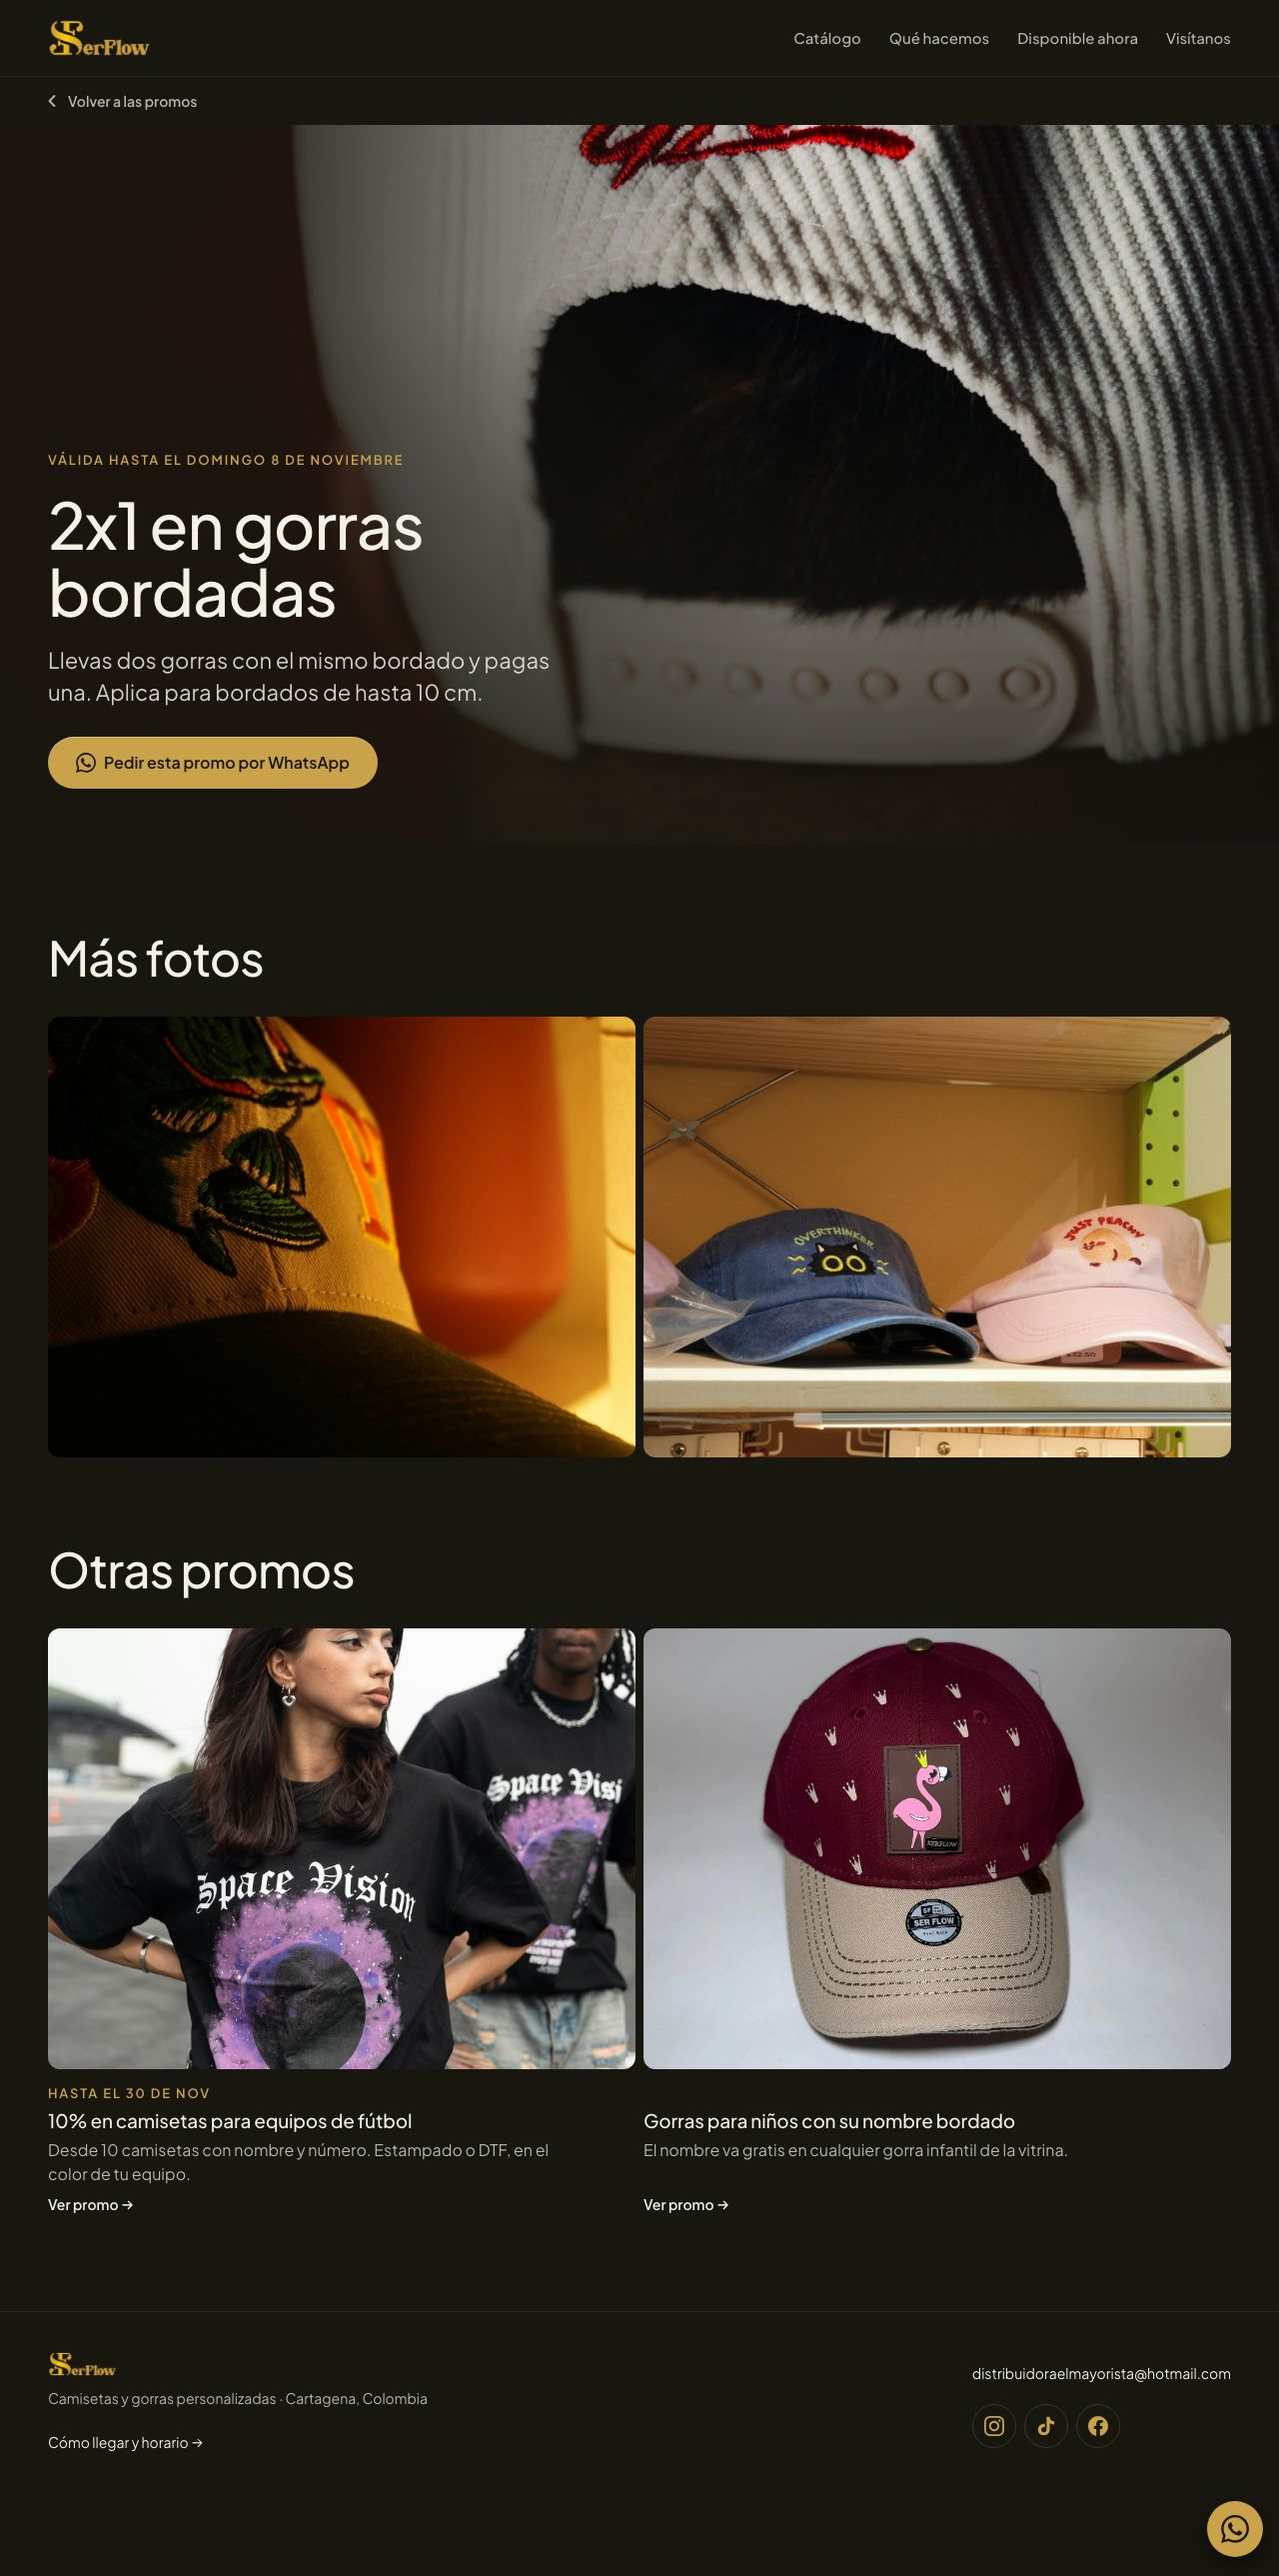
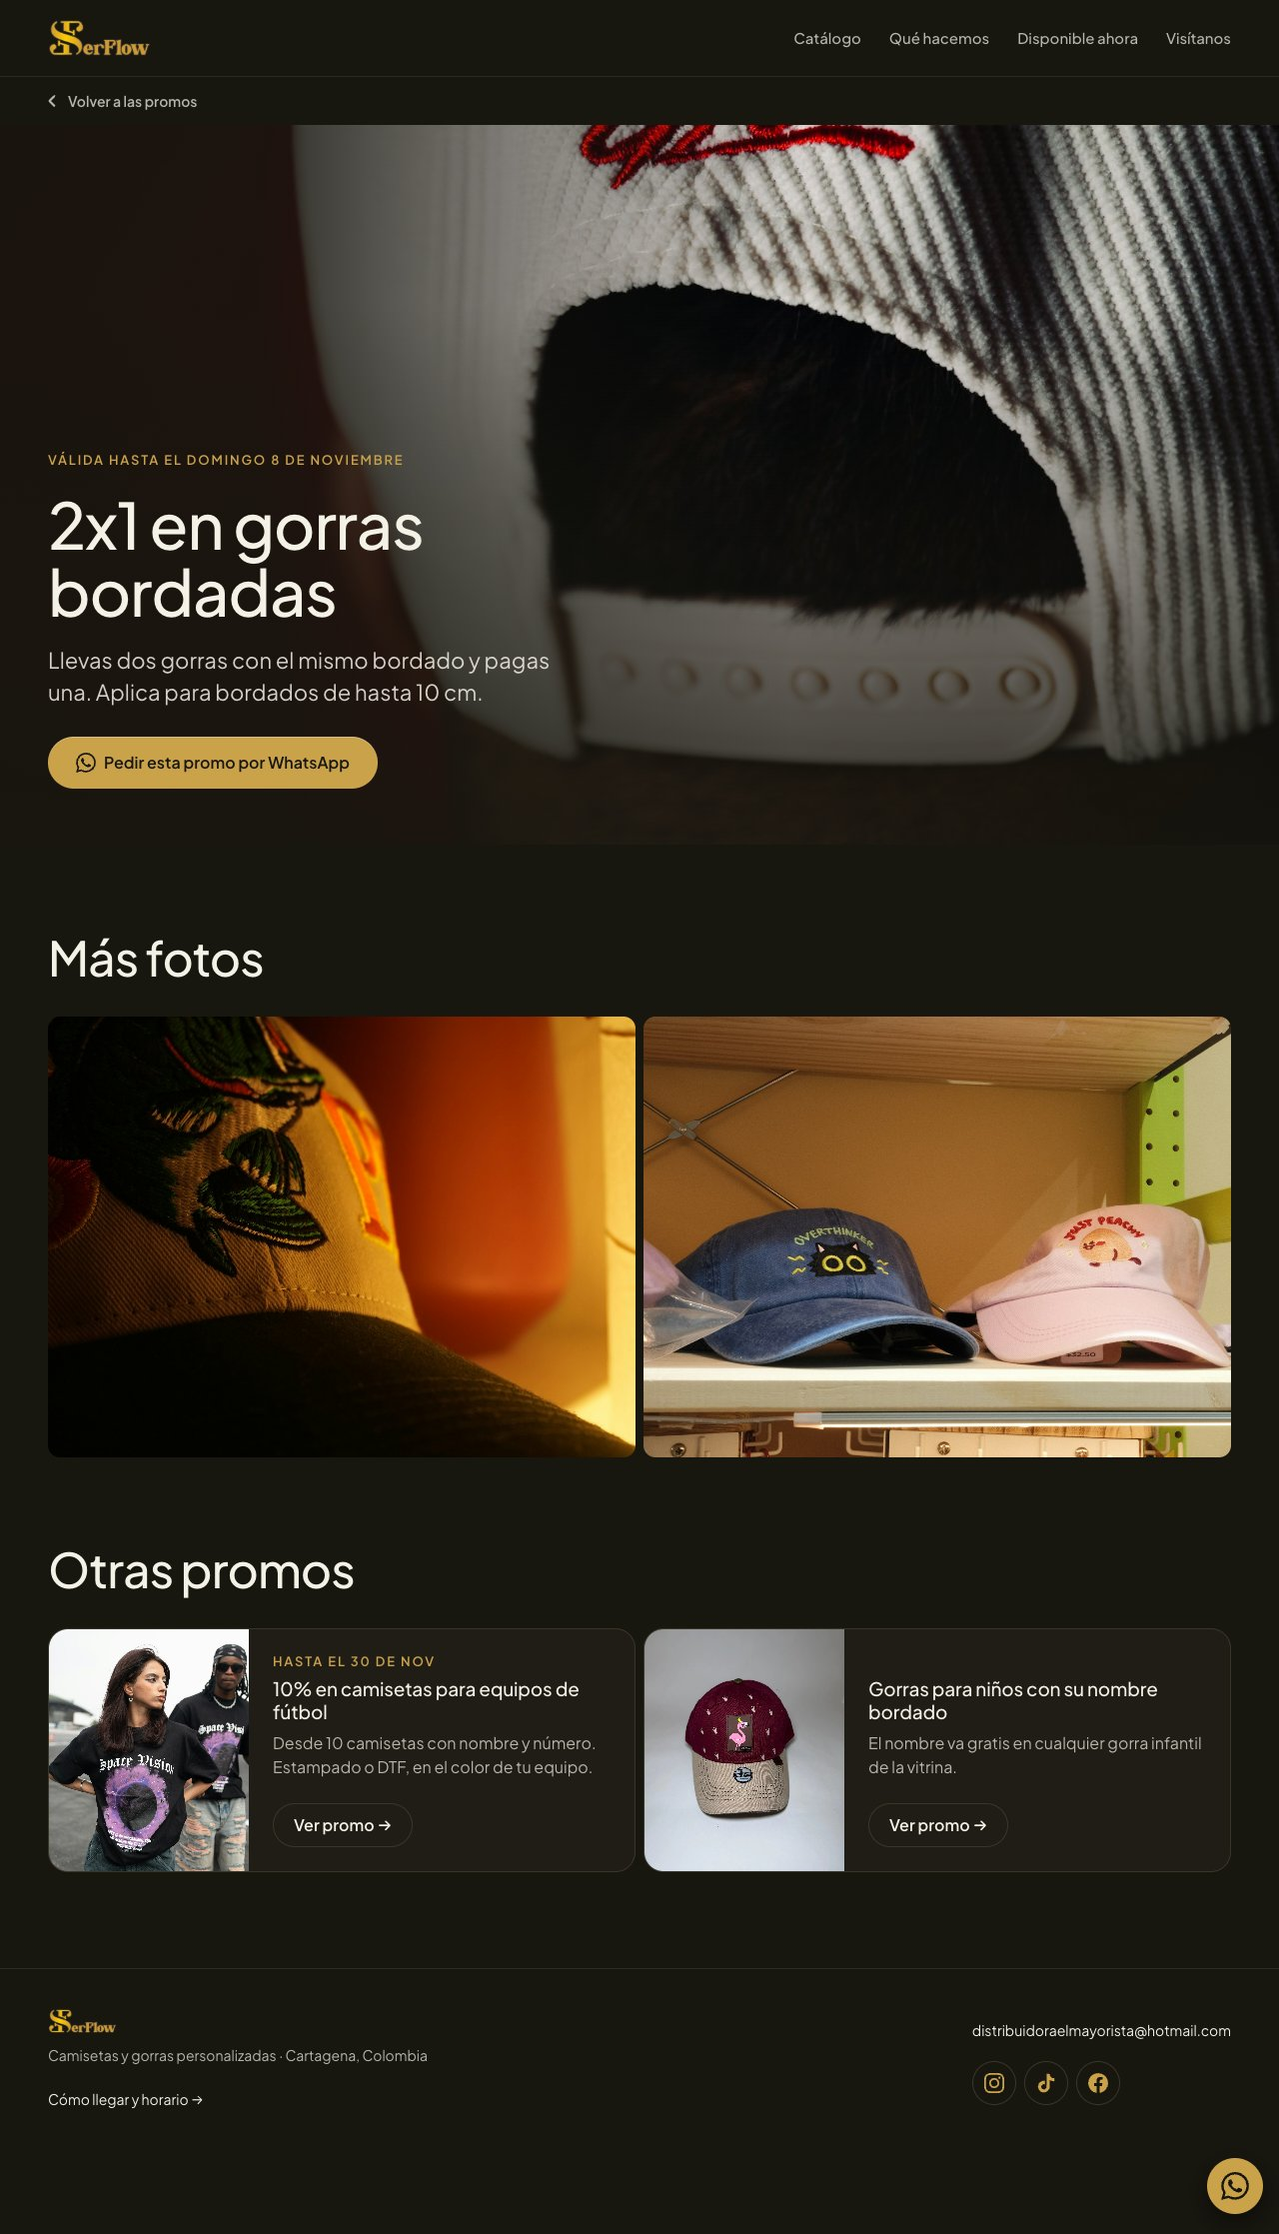
docs: PRI-286 other promos and the 404 promos as boxed horizontal promo cards: small photo at full height, date, title and a bordered Ver promo button, text always at the top

diff --git a/tempo/designs/canvases/portada-final/pantallas.css b/tempo/designs/canvases/portada-final/pantallas.css
@@ -131,32 +131,56 @@
   .pf-mas-fotos[data-n='1'] img { aspect-ratio: 21 / 9; }
 }
 
-/* Tarjetas de promo (PromoCard sin caja). Celular: filas foto 4:5 de 112 + texto, como Qué hacemos en la portada.
-   Desktop: una fila llena (2 -> 6 columnas, 3 -> 4), foto 4:3 y pie debajo, como Disponible ahora.
-   La vigencia con la etiqueta del sistema (13 mayúsculas oro), sin píldora. PUENTE: PromoCard. */
-.pf-promo-tarjetas { display: grid; gap: 24px; }
-.sf-r3 .pf .pf-promo-tarjetas a > div { display: grid; grid-template-columns: 112px minmax(0, 1fr); column-gap: 16px; align-items: start; }
-.sf-r3 .pf .pf-promo-tarjetas a img { aspect-ratio: 4 / 5; height: auto; }
-.sf-r3 .pf .pf-promo-tarjetas a > div > div.flex-1.p-4:last-child { padding: 0; gap: 0; justify-content: flex-start !important; }
-/* En el celular, sin la descripción: cortada a dos líneas quedaba a medio decir y más alta que la miniatura. */
-.sf-r3 .pf .pf-promo-tarjetas p { display: none; }
-/* La vigencia en una línea de alto fijo (16) y 8 hasta el título. Si la promo no tiene fecha, el título baja esos
-   mismos 24: los títulos de todas las tarjetas quedan en la misma línea. Al construir: PromoCard reserva la línea de
-   vigencia vacía (min-height) en vez de este margen. */
+/* Tarjetas de promo (Otras promos y la 404). Said (2026-11-02): "parecen otras fotos más, dales más jerarquía". Ya no
+   van sin caja como la galería de Más fotos: cada promo es una tarjeta horizontal con caja (superficie, borde, radio
+   16), la foto chica a la izquierda a todo el alto y, a la derecha, la vigencia (etiqueta oro), el título y Ver promo
+   con forma de botón (borde, 44 de alto, 16 semibold). Celular: una debajo de otra, foto de 112, sin la bajada.
+   Desktop: una fila llena (2 -> 6 columnas, 3 -> 4); con la tarjeta de 30rem o más (2 en fila) la foto mide 200 y
+   sale la bajada. Texto siempre arriba; Ver promo al fondo de la tarjeta, así en una fila todas cierran igual.
+   PUENTE: PromoCard (en el PR, una variante horizontal y el "Ver promo" como Button secondary dentro del link). */
+.pf-promo-tarjetas { display: grid; gap: var(--pf-g); }
+.sf-r3 .pf .pf-promo-tarjetas a.group.rounded-card { height: 100%; overflow: hidden; border: 1px solid var(--color-line); border-radius: var(--radius-card); background: var(--color-surface); }
+.sf-r3 .pf .pf-promo-tarjetas a > div { display: grid; grid-template-columns: 112px minmax(0, 1fr); height: 100%; }
+/* La foto llena su columna sin dar alto: lo da el texto (mínimo 140 = 112 en 4:5). */
+.sf-r3 .pf .pf-promo-tarjetas a > div > div.overflow-hidden { position: relative; min-height: 140px; border-radius: 0; }
+.sf-r3 .pf .pf-promo-tarjetas a img { position: absolute; inset: 0; width: 100%; height: 100%; aspect-ratio: auto; }
+.sf-r3 .pf .pf-promo-tarjetas a > div > div.flex-1.p-4:last-child { display: flex; flex-direction: column; align-items: flex-start; justify-content: flex-start !important; gap: 0; padding: 16px; }
+.sf-r3 .pf .pf-promo-tarjetas p { display: none; margin-top: 8px; font-size: var(--pf-body); line-height: 1.5; color: var(--color-muted); max-width: 44ch; }
+/* La vigencia con la etiqueta del sistema (13 mayúsculas oro), sin píldora, en una línea de 16 y 8 hasta el título. */
 .pf .pf-promo-tarjetas a > div > div:last-child > span:first-child { display: block; padding: 0; background: none; font-size: var(--pf-pie); font-weight: 600; line-height: 16px; letter-spacing: 0.14em; text-transform: uppercase; color: var(--color-accent); }
 .pf .pf-promo-tarjetas a > div > div:last-child > span:first-child > span { display: none; }
 .sf-r3 .pf .pf-promo-tarjetas h3 { margin-top: 8px; font-size: var(--pf-h3); font-weight: 500; line-height: 1.25; }
-.sf-r3 .pf .pf-promo-tarjetas a.group.rounded-card div.flex-1 > h3.font-display:first-child { margin-top: 24px; }
-.sf-r3 .pf .pf-promo-tarjetas p { margin-top: 6px; font-size: var(--pf-body); line-height: 1.5; color: var(--color-muted); }
-/* Ver promo al fondo de la tarjeta: en una fila todas cierran a la misma altura aunque la bajada sea más corta. */
-.sf-r3 .pf .pf-promo-tarjetas a > div > div:last-child > span:last-child { margin-top: auto; padding: 8px 0 0; }
+/* Sin fecha, el título arranca arriba (celular, una debajo de otra). En una fila de desktop baja los 24 de la
+   vigencia para quedar en la línea de los títulos vecinos (al construir: PromoCard reserva esa línea). */
+.sf-r3 .pf .pf-promo-tarjetas a.group.rounded-card div.flex-1 > h3.font-display:first-child { margin-top: 0; }
+.sf-r3 .pf .pf-promo-tarjetas a > div > div:last-child > span:last-child {
+  display: inline-flex;
+  min-height: 44px;
+  align-items: center;
+  margin-top: auto;
+  padding: 0 20px;
+  border: 1px solid var(--color-line);
+  border-radius: 9999px;
+  font-size: 16px;
+  font-weight: 600;
+  color: var(--color-ink);
+  text-decoration: none;
+  transition: border-color var(--motion-med) ease-out;
+}
+/* Ver promo: al menos 16 debajo del título (24 debajo de la bajada, cuando sale). */
+.sf-r3 .pf .pf-promo-tarjetas h3 { margin-bottom: 16px; }
+.sf-r3 .pf .pf-promo-tarjetas p { margin-bottom: 24px; }
+.sf-r3 .pf .pf-promo-tarjetas a > div > div:last-child > span:last-child::after { display: none; }
+.sf-r3 .pf .pf-promo-tarjetas a:is(:hover, :focus-visible) > div > div:last-child > span:last-child { border-color: var(--color-ink); }
 @container pf (min-width: 48rem) {
-  .pf-promo-tarjetas { grid-template-columns: repeat(var(--n), minmax(0, 1fr)); gap: var(--pf-g); }
-  .sf-r3 .pf .pf-promo-tarjetas a > div { display: flex; flex-direction: column; }
-  .sf-r3 .pf .pf-promo-tarjetas a img { aspect-ratio: 4 / 3; }
-  /* 44ch: entre la bajada de una tarjeta y la de la siguiente queda aire, no solo la calle de 8. */
-  .sf-r3 .pf .pf-promo-tarjetas p { display: block; max-width: 44ch; }
-  .sf-r3 .pf .pf-promo-tarjetas a > div > div.flex-1.p-4:last-child { padding: 16px 0 0; }
+  .pf-promo-tarjetas { grid-template-columns: repeat(var(--n), minmax(0, 1fr)); }
+  .sf-r3 .pf .pf-promo-tarjetas a > div > div.flex-1.p-4:last-child { padding: 24px; }
+  .sf-r3 .pf .pf-promo-tarjetas a.group.rounded-card div.flex-1 > h3.font-display:first-child { margin-top: 24px; }
+}
+@container (min-width: 30rem) {
+  .sf-r3 .pf .pf-promo-tarjetas a > div { grid-template-columns: 200px minmax(0, 1fr); }
+  .sf-r3 .pf .pf-promo-tarjetas p { display: block; }
+  .sf-r3 .pf .pf-promo-tarjetas h3 { margin-bottom: 0; }
 }
 
 /* ---------- 4. Personalizador (/personaliza, PR #36): título de página interior, vista previa en 6 columnas y pasos en 5 desde la 8 ---------- */
@@ -207,7 +231,3 @@
 @container pf (min-width: 48rem) {
   .pf-404-botones { flex-direction: row; width: auto; }
 }
-/* Celular: Ver promo pegado a su título (8), no empujado al borde de abajo de la miniatura: con la descripción oculta
-   quedaba a 70-95 de él, suelto. Como Qué hacemos en la portada. La línea de vigencia reservada (títulos en la misma
-   línea, en 390 y en 1280) y Ver promo al fondo de la tarjeta en desktop están en "Promos · detalle" (sección 3). */
-.sf-r3 .pf .pf-promo-tarjetas a > div > div.flex-1.p-4:last-child { display: flex; flex-direction: column; }
